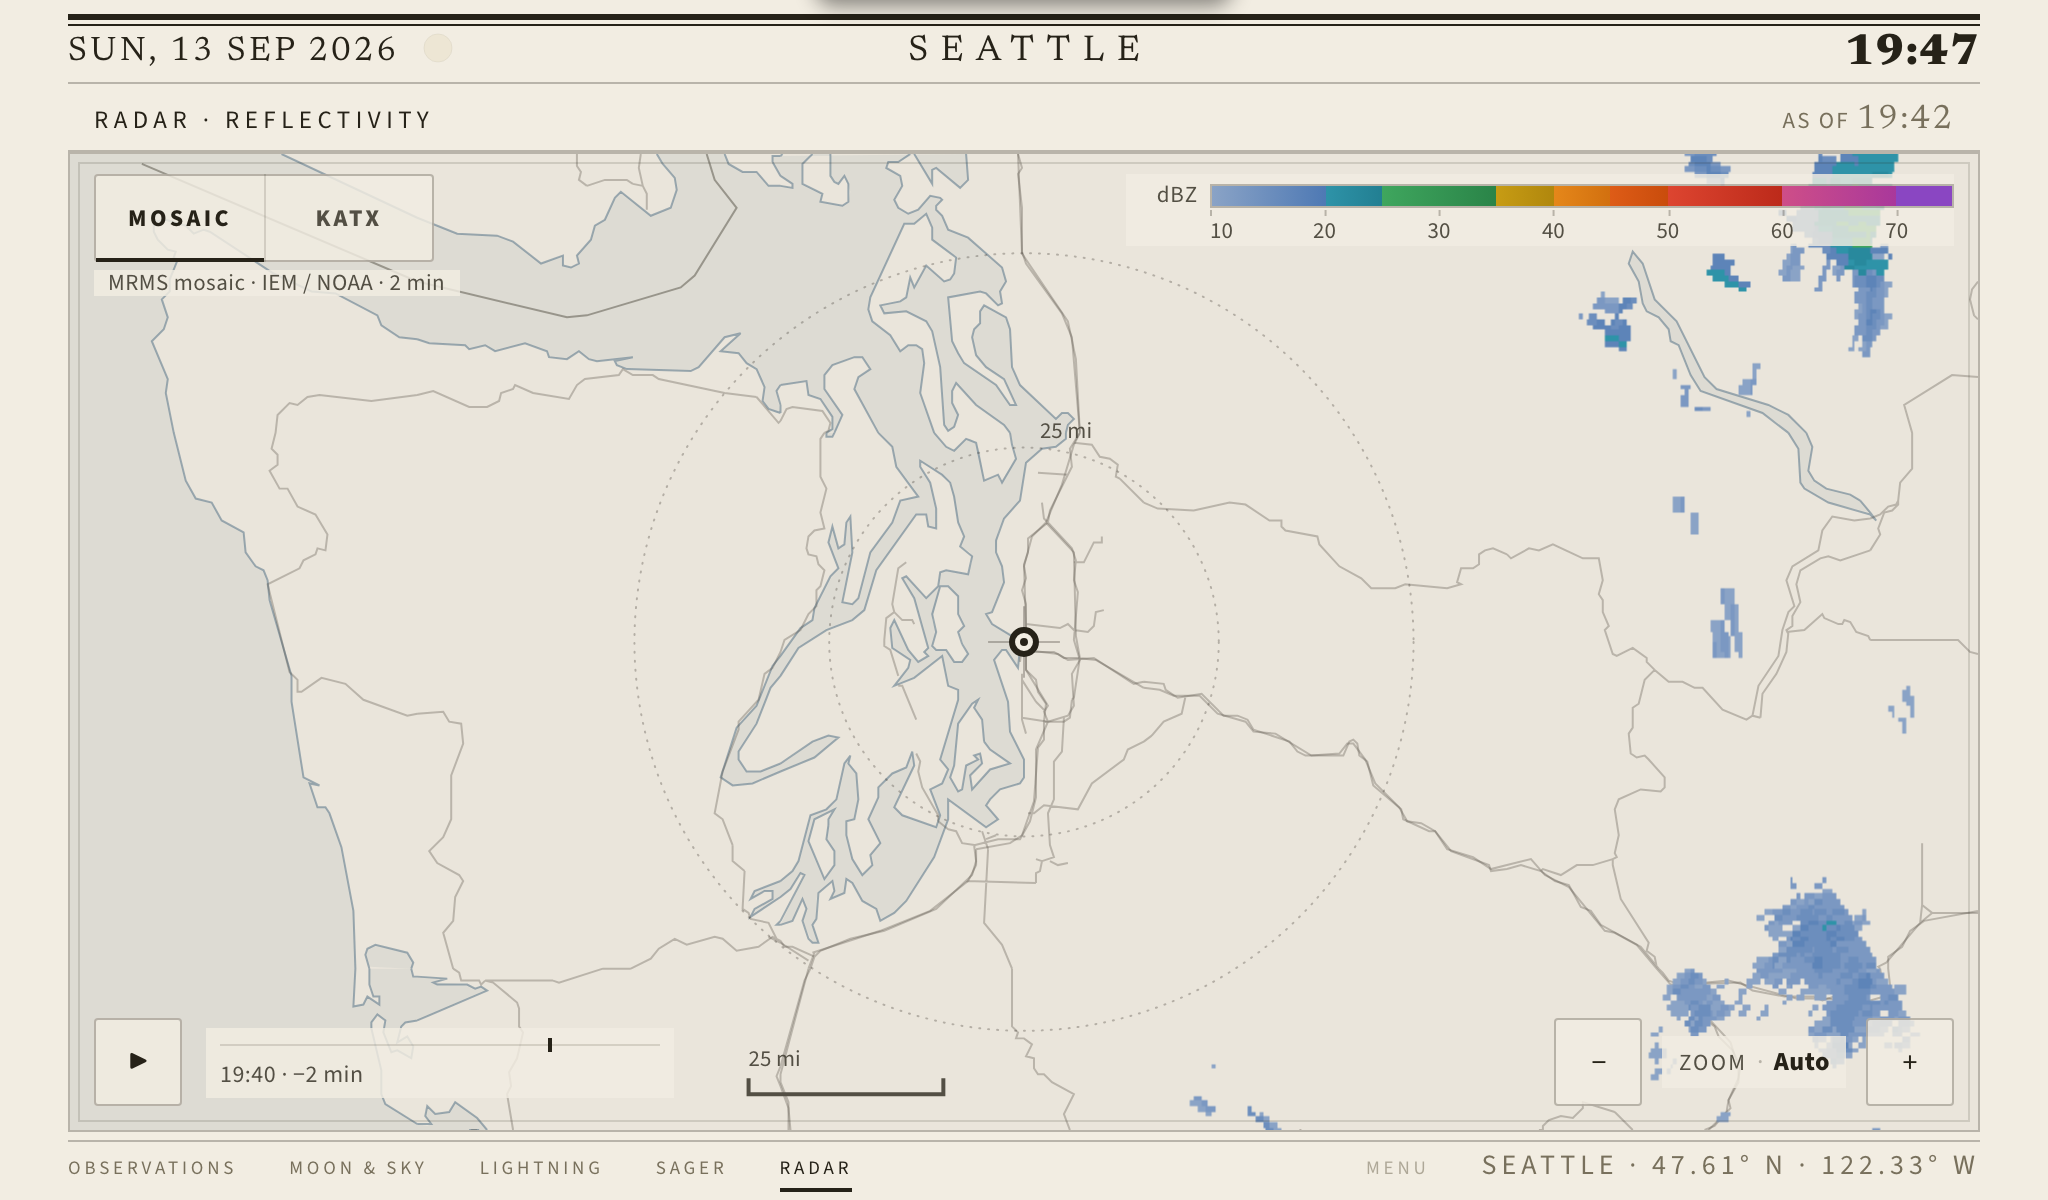
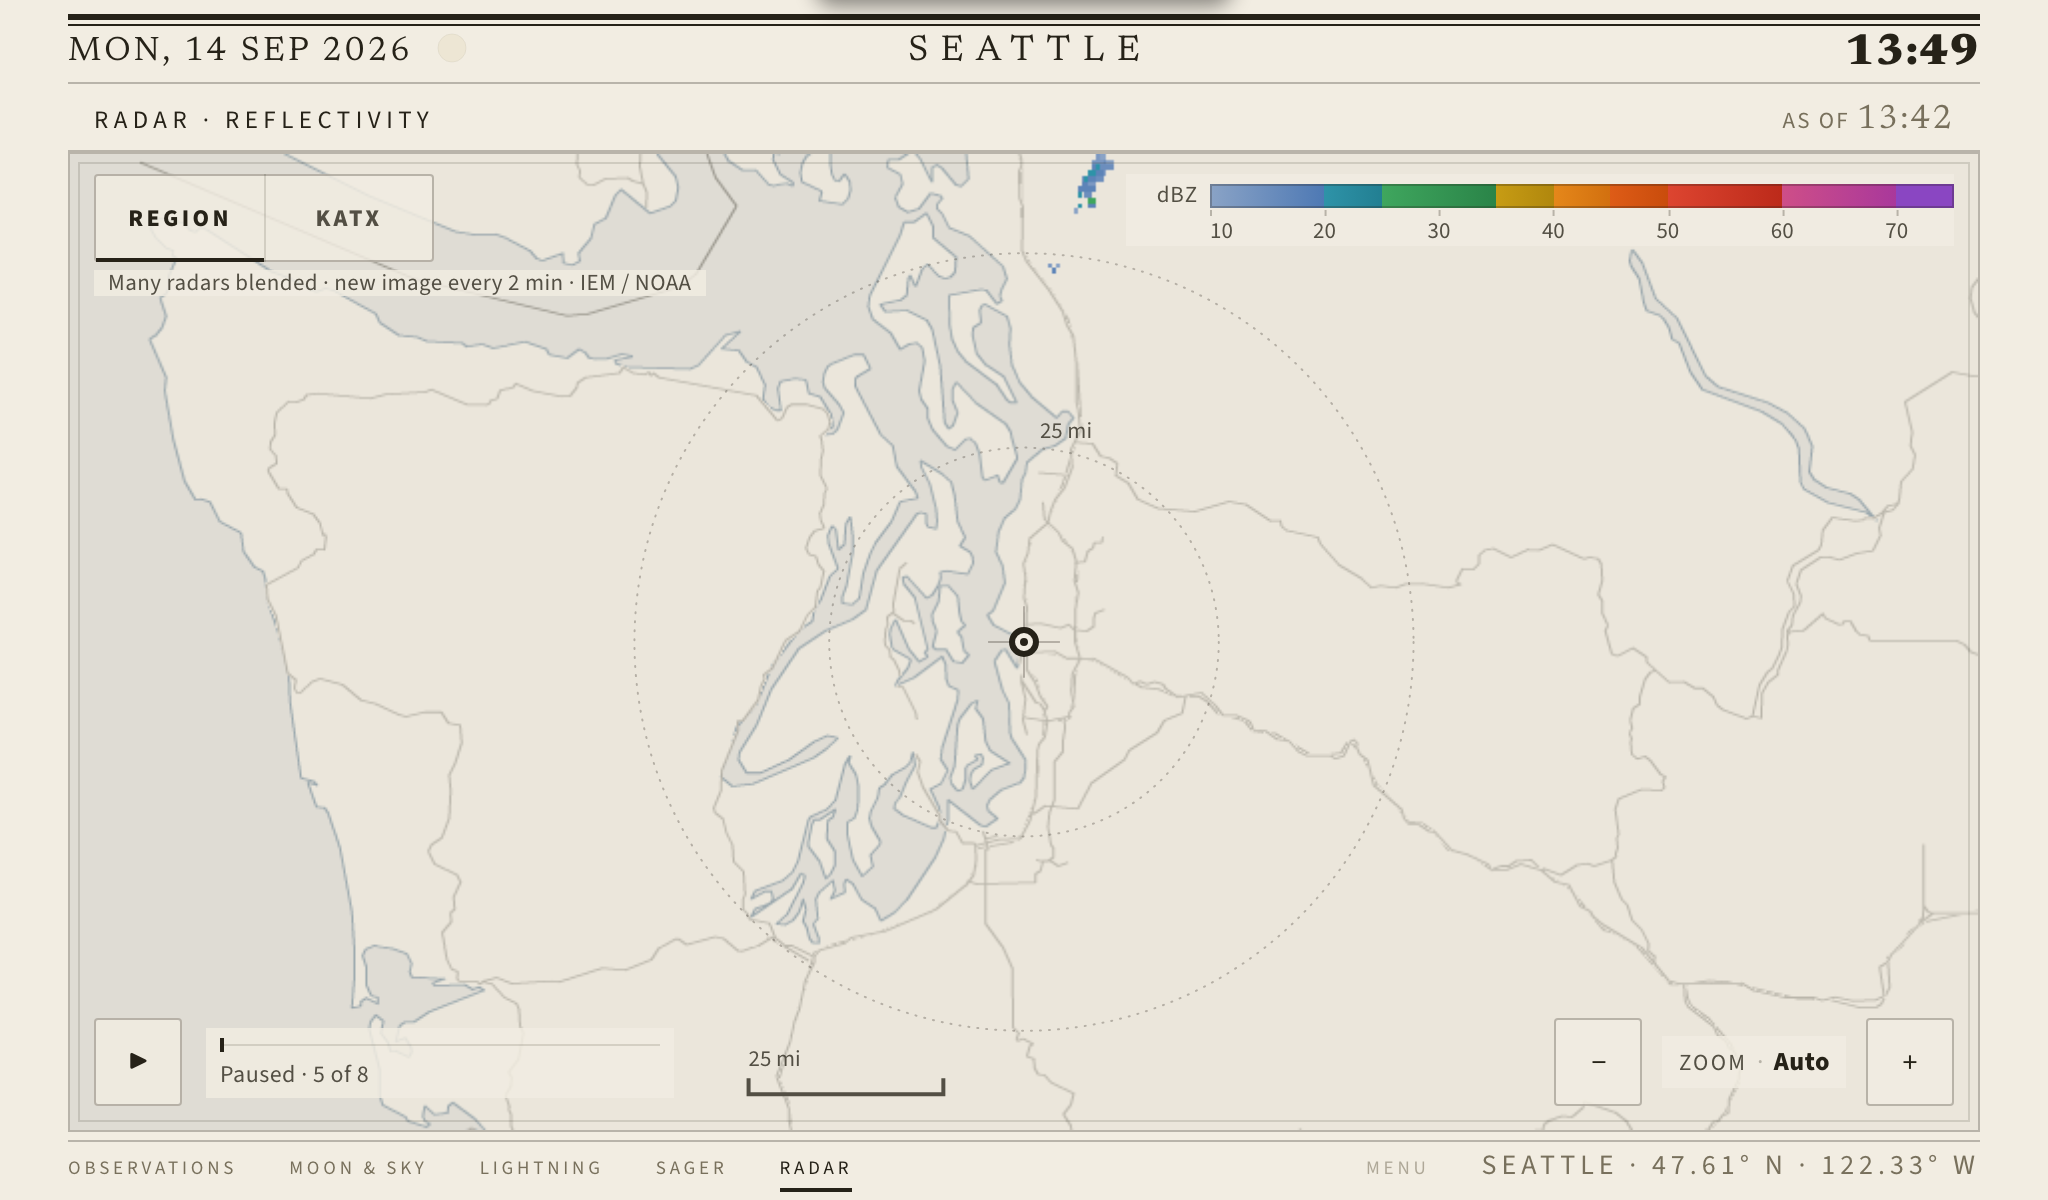
docs: README radar section for v4 - a map you drag, tiles cached locally
Rewritten for the page-owned map (geography and radar as locally cached
tiles, nothing waits on a server), the five-a-second loop with a
crossfade, Region / callsign buttons with the plain caption, faint site
returns from 5 dBZ, and instant play. Visuals re-captured on the v4 page
(Seattle sample, paper).

Claude-Session: https://claude.ai/code/session_01YQr62iqzsKNww1N53c1hpy

diff --git a/README.md b/README.md
@@ -64,32 +64,33 @@ The classic six-panel console (the upstream default) for comparison:
 
 ![The classic six-panel console](design/almanac/screenshots/classic.png)
 
-A **Radar** tab puts a live reflectivity mosaic under the same discipline. It is
-centered on the station and works anywhere on Earth: in the US it leads with
-NOAA's MRMS composite at two-minute frames, and everywhere else — or whenever
-that feed can't be reached — it falls back to a global ten-minute mosaic, always
-trying the finer source first and saying which one is on screen. Every source's
-echoes are drawn on one reflectivity scale — nine bands from 10 to 75 dBZ in the
-RadarScope tradition, the same pixels on paper and night, nothing below 10 dBZ so
-clear-air clutter never films the map, and no guessing at rain versus snow — over
-real geography — coastline and water, state and country lines, major roads —
-drawn from bundled public-domain map data, so the basemap needs no key and works
-offline. The radar takes the whole plate: 956 × 490 pixels, two thirds
-of the screen, with the controls kept to quiet overlays along the top and bottom
-edges and nothing within 150 pixels of the station. Recent frames play as a
-smooth loop while the tab is open — pre-decoded so a Pi never stutters, about
-nine a second with a hold on the newest — whose scan time is printed beside the
-clock and is never dressed up as "live". A quiet +/− sets the zoom and remembers
-it across reboots; the default is tightened to about 200 km across the plate's
-height. On the touchscreen the map drags and pinches by hand, the station glyph
-showing where home is while you're away and the view drifting back to it after a
-minute and a half untouched. Where a NEXRAD site is in range, one tap switches from the mosaic to that
-radar's own super-resolution scans, animated over its real scan times — and zoomed
-wide, every radar whose range reaches the view is composited, nearest on top, with
-hairline range arcs so a coverage edge never reads as a squall line. A chosen
-radar is remembered while the mosaic fills in below its zoom floor. One quiet
-line above the zoom buttons reports a refresh in progress ("frame 4 of 12"), and
-a fetch your fingers have overtaken restarts rather than finishing behind you.
+A **Radar** tab puts a live reflectivity view under the same discipline, and
+it behaves like a map you already know: drag, flick, pinch, and the picture just
+moves. The panel owns the map. Geography — coastline and water, state and county
+lines, major roads, from bundled public-domain data — is rendered once by the
+engine into small tiles for every zoom and both themes, cached, and drawn by the
+page at any zoom in a few milliseconds; radar arrives as tiles the page places
+itself, so a pan reveals more and a zoom step never waits on a server and never
+replaces what you are looking at. It is centered on the station and works
+anywhere on Earth: in the US it leads with NOAA's MRMS composite at two-minute
+frames, and everywhere else — or whenever that feed can't be reached — it falls
+back to a global ten-minute mosaic, always saying which one is on screen. Every
+source's echoes are drawn on one reflectivity scale — nine bands from 10 to
+75 dBZ in the RadarScope tradition, the same pixels on paper and night, nothing
+below 10 dBZ so clear-air clutter never films the map, and no guessing at rain
+versus snow. Recent frames play as a smooth loop, five a second with a short
+crossfade and a hold on the newest, whose scan time is printed beside the clock
+and is never dressed up as "live"; opening the tab brings the loop up from cache
+in milliseconds, and play means play even while frames are still arriving. Two
+buttons choose the picture: **Region**, many radars blended with a new image
+every two minutes, or the nearest **NEXRAD** site by its callsign — its own
+scans at their real times, every neighbouring radar whose range reaches the
+view composited underneath, faint returns from 5 dBZ so a clear-air day still
+shows its texture, and a plain caption under the buttons that says which radar,
+how far, and how often. A tap answers at once and the switch lands in a second
+or two. A quiet +/− sets the zoom and remembers it across reboots; the station
+glyph shows where home is while you're away and the view drifts back to it
+after a minute and a half untouched.
 
 ![The Radar tab: MRMS reflectivity over the Puget Sound coastline, roads and county lines](design/almanac/screenshots/radar.png)
 
@@ -103,7 +104,7 @@ What it changes:
 - Air quality (AQI) by the station's own latitude and longitude, with a short forecast so a rising smoke event shows before the number climbs.
 - A 7-day outlook band: each day's low–high drawn as a bar on ONE shared axis for the week (so a cool-down is visibly a shorter, lower bar), condition glyphs beside the highs — sun, cloud, fog, rain, snow, thunderstorm, wind, and the compound marks wind-driven rain and blowing snow (a gusty wet day keeps its water but the drops slant to the engraver's driving-rain angle behind a wind curl) — precipitation probability only when it matters, the day's expected amount beside it in the station's own unit (dry days print nothing), and today's bar carrying a dot at the observed temperature.
 - A one-line hint about tomorrow under the conditions headline ("Rain tomorrow", "Wind-driven rain tomorrow", "Freezing rain tomorrow", "Blowing snow tomorrow"…), led by tomorrow's own band glyph, that appears only when tomorrow is a story — its absence is the fair-weather signal.
-- A Radar tab (above): two-minute NOAA MRMS frames in the US, a ten-minute global mosaic elsewhere, one dBZ scale for every source over bundled real geography, a smooth pre-decoded loop, a remembered zoom, and a NEXRAD view that composites every radar in reach.
+- A Radar tab (above): a map you drag and pinch like any other, geography and radar both as locally cached tiles so nothing waits on a server; two-minute NOAA MRMS frames in the US, a ten-minute global mosaic elsewhere, one dBZ scale for every source, a five-a-second loop with a crossfade, a remembered zoom, and a NEXRAD view that composites every radar in reach.
 - A rainfall rate gauge scaled by intensity rather than linearly — the five named bands (Very Light through Very Heavy) each take an equal fifth of the tube, so drizzle registers and a downpour doesn't pin the needle. Light rain never reads as dry: the Tempest's haptic sensor logs drizzle as an occasional trace minute with zeros between, so the rate carries a 10-minute window that bridges those gaps. Rain arrives and leaves like weather, not like a switch — the volume of falling drops counts up quickly and down slowly, column by column, toward the measured rate (so the sensor's wet/dry flip between minutes reads as a swell and a settle), the drops shorten and slow as it eases, and the last column leaves through a fade.
 - A wind panel that resolves to one current reading, with a bolder compass.
 - Animated updates: values count up, the vane swings — and while rain falls, etched rain falls through the gauge into a waving water surface, with fall speed, density, swell, and drift all tracking the measured rate.
